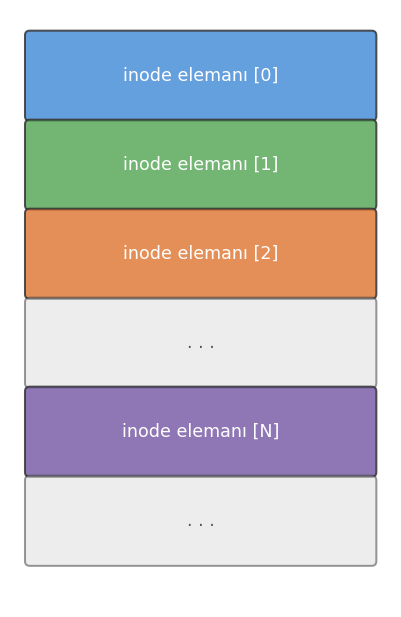
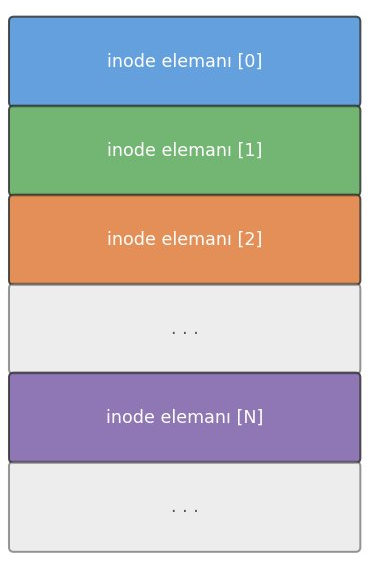
Update

Changed region(s): [[0.0, 0.0, 0.9864, 0.9637], [0.269, 0.3731, 0.7174, 0.4352], [0.269, 0.2487, 0.7174, 0.2798]]

diff --git a/docs/source/kernelsync.rst b/docs/source/kernelsync.rst
@@ -2,3 +2,122 @@
 Çekirdek Senkronizasyonu
 =========================
 
+Kitabımızın bu bölümünde Linux çekirdeğindeki senkronizasyon mekanizmaları üzerinde
+duracağız. Çekirdek içerisindeki kodlar iç içe geçebilecek biçimde (re-entrant)
+çalışabilmektedir. Eğer makinenizde birden fazla işlemci ya da çekirdek varsa
+çekirdek kodları bunlar tarafından eş zamanlı biçimde işletilebilmektedir. Tek
+işlemcili ya da çekirdekli sistemlerde de *thread'ler arası geçiş ve kesme
+mekanizmalarından dolayı* akışların iç içe geçmesi söz konusu olabilmektedir.
+
+Linux çekirdekleri 2.6 ile birlikte *preemptive* hale getirilmiştir. Eskiden
+2.6'dan önceki çekirdeklerde bir thread akışı çekirdek moduna geçtiğinde oradan
+çıkana kadar kesilme (preemption) oluşmuyordu. Ancak 2.6 çekirdekleriyle birlikte
+bir thread akışı örneğin bir sistem fonksiyonunda ilerlerken de quantum süresi
+dolduğundan dolayı çekirdek içerisinde de kesilebilmektedir.
+
+Linux çekirdeğinde oldukça çeşitli senkronizasyon nesneleri bulunmaktadır. Bu
+bölümde biz bu nesneleri ele alıp onların nasıl kullanıldığını açıklayacağız.
+Aynı zamanda çok işlemcili ya da çekirdeklerdeki senkronizasyon sorunlarını ele
+alacağız.
+
+Kritik Kod Blokları ve Senkronizasyonun Gerekliliği
+===================================================
+
+Çekirdek kodlarında senkronizasyon uygulamaya neden gerek vardır? Tıpkı kullanıcı
+modundaki çok thread'li uygulamalarda olduğu gibi bir akış çekirdek içerisinde
+paylaşılan bir veri yapısı üzerinde işlem yaparken bir biçimde thread'ler arası
+geçiş ya da kesme olayı söz konusu olduğunda başka bir akış da bu paylaşılan veri
+yapısını kullanmak isterse bu veri yapısı bozulabilmektedir. Tabii çok çekirdekli
+sistemlerde farklı çekirdeklerdeki thread'ler de çekirdek içerisindeki ortak veri
+yapıları üzerinde eş zamanlı işlemler yapabilmektedir. Örneğin çekirdek kodunun bir
+bağlı listeye eleman eklediğini varsayalım. Tam bu işlemin ortalarında bir yerde
+thread'ler arası geçiş oluşursa ya da başka bir çekirdekteki thread de aynı bağlı
+liste üzerinde işlem yapmaya çalışırsa tüm veri yapısı bozulabilecektir.
+
+Çekirdek senkronizasyonunda en önemli kavram *kritik kod (critical section)* denilen
+kavramdır. Başından sonuna kadar tek bir akış tarafından işletilmesi gereken kodlara
+*kritik kod* denilmektedir. Kritik kod kavramını atomiklikle karıştırmayınız.
+Atomiklik *bir işlem yapılırken thread'ler arası geçiş ya da kesme mekanizması
+yoluyla* işlemin kesintiye uğramaması anlamına gelmektedir. Bir akış çekirdekteki
+bir *kritik kod*'a girdiğinde akış *preemption*'dan dolayı kesintiye uğrayabilir.
+Ancak bu durumda bile başka bir akış kesintiye uğramış olan akış işini bitirene kadar
+kritik koda girmemelidir. Yani kritik koda girmiş olan bir akışın kesintiye uğraması
+biçiminde bir koşul yoktur.
+
+Çekirdek kodları kullanıcı modundaki kodlar gibi değildir. Çekirdek kodları aynı
+zaman diliminde pek çok akış tarafından iç içe geçecek biçimde çalıştırılabilmektedir.
+Bu nedenle çekirdek tasarımında ve aygıt sürücü yazımında senkronizasyon her zaman
+göz önüne alınmalıdır. Maalesef senkronizasyon sorunlarının tespit edilmesi oldukça
+zor olabilmektedir. Çünkü senkronizasyon problemlerinin oluşturduğu böceklerin
+*reproduce* edilmesi oldukça zordur.
+
+Çekirdek içerisindeki *kritik kod* bloklarının önemli bir bölümü birden fazla akışın
+paylaşılan bir veri yapısına erişilmesi nedeniyle oluşturulmaktadır. Örneğin aynı
+hash tablosuna birden fazla prosesin çağırdığı sistem fonksiyonları eleman ekleyebilir.
+Bu durumda bu hash tablosunun böyle erişimlerde *serialize* edilmesi gerekir. Ancak
+senkronizasyon sorunu yalnızca ortak veri yapılarına ve nesnelere erişirken ortaya
+çıkmaz. Bu bölümde ele alacağımız senkronizasyonu gerektiren başka durumlar da
+vardır.
+
+Genel olarak (ancak her zaman değil) bir nesne — burada çekirdek alanı içerisinde
+tahsis edilmiş bir alanı kastediyoruz — eğer birden fazla akış tarafından
+kullanılıyorsa bu nesnenin senkronize edilmesi için ayrı bir senkronizasyon nesnesi
+bulundurulmaktadır. Linux'un çekirdek kodlarında yapıların içerisinde senkronizasyon
+nesnelerini görürseniz şaşırmayınız. Bir senkronizasyon nesnesi ile birden fazla
+nesneyi korumak genel olarak iyi bir fikir değildir; çünkü bu nesnelerden birine
+erişirken kilit alındığı için aslında alakasız olan diğerine erişim de engellenmiş
+olacaktır. Her nesnenin ayrı bir senkronizasyon nesnesi ile korunması en normal olan
+durumdur. Linux çekirdek nesnelerini incelediğinizde onları belirten yapıların
+elemanlarında senkronizasyon nesneleri göreceksiniz.
+
+Manuel Kritik Kod Bloklarını Oluşturmanın Sorunları
+----------------------------------------------------
+
+Kritik kodlar ancak özel makine komutları kullanılarak oluşturulabilmektedir.
+Aşağıdaki gibi basit bir mantıkla kritik kod oluşturulamaz:
+
+.. code-block:: c
+
+    int g_flag = 0;
+    /* ... */
+
+    while (g_flag)
+        ;
+    g_flag = 1;
+    ...
+    ...         <KRİTİK KOD BLOĞU>
+    ...
+    g_flag = 0;
+
+Bu biçimdeki manuel kritik kod oluşturma girişiminin iki sorunu vardır:
+
+1. Bekleme bloke edilerek değil meşgul bir döngüde (busy loop) yapılmaktadır.
+   Yani bir thread kritik kod içerisindeyse diğeri CPU zamanı harcayarak meşgul
+   bir döngüde sürekli bekler.
+
+2. Kodda açık bir pencere bulunmaktadır:
+
+   .. code-block:: c
+
+       while (g_flag)
+           ;
+
+       /* ← DİKKAT: burada thread'ler arası geçiş oluşabilir! */
+
+       g_flag = 1;
+       ...
+       ...      <KRİTİK KOD BLOĞU>
+       ...
+       g_flag = 0;
+
+   Yukarıda gösterilen noktada thread'ler arası geçiş oluşursa birden fazla
+   thread kritik koda girebilir.
+
+İşte bu sakıncayı ortadan kaldırmak için özel makine komutlarından
+faydalanılmaktadır. Bugün bilgisayar sistemlerinde birden fazla çekirdek
+bulunabildiği için kritik kod oluşturan sistem programcılarının bunlara dikkat
+etmesi gerekir. Linux'un çekirdek kodlarında zaten çeşitli senaryolar için
+kullanılabilecek senkronizasyon nesneleri hazır biçimde bulunmaktadır. Bu bölümde
+biz bu senkronizasyon nesnelerini ele alacağız. Bölümün sonlarına doğru da bu
+senkronizasyon nesnelerinin oluşturulabilmesi için gereken makine komutları hakkında
+bilgiler vereceğiz.

diff --git a/docs/source/filesystem1.rst b/docs/source/filesystem1.rst
@@ -937,10 +937,10 @@ UNIX/Linux sistemlerinde bir dosya açıldığında ``open`` POSIX fonksiyonunun
 betimleyicileri aslında dosya betimleyici tablosunda bir indeks belirtmektedir. Dosya betimleyici tablosu dosya nesnelerinin
 (yani ``file`` yapısı türünden nesnelerin) adreslerini tutan bir gösterici dizisidir. Bu tabloyu şöyle temsil edebiliriz:
 
-.. image:: /_static/fd-table.svg
+.. image:: /_static/fd-table.png
    :alt: Dosya Betimleyici Tablosu
    :align: center
-   :width: 70%
+   :width: 65%
    
 Güncel çekirdeklerde dosya betimleyici tablosuna ``task_struct`` nesnesinden hareketle birkaç hamlede erişilmektedir:
 
@@ -993,10 +993,10 @@ tablosu (file descriptor table)* denilmektedir. Yukarıda da belirttiğimiz gibi
 nesnelerinin adreslerini tutan bir gösterici dizisi biçimindedir. Bir kez daha dosya betimleyici tablosunu temsili 
 biçimde gösteriyoruz:
 
-.. image:: /_static/fd-table.svg
+.. image:: /_static/fd-table.png
    :alt: Dosya Betimleyici Tablosu
    :align: center
-   :width: 70%
+   :width: 65%
 
 Buradaki sayılar dizinin indekslerini belirtmektedir. Tabii zamanla dosyalar kapanınca bu dizinin elemanlarının da 
 boşa düşeceğine dikkat ediniz. Boş elemanlara NULL adres yerleştirilmektedir. İşte ``open`` POSIX fonksiyonunun 
@@ -1580,69 +1580,14 @@ numaralı betimleyicileri aynı dosya nesnelerini gösteriyor durumda olur. Tabi
 yeni açacağı dosyalar onlara özgü olacaktır. Paylaşılan dosya nesneleri yalnızca ``fork`` öncesinde açılmış
 olanlardır. fork işlemi sırasında yapılan işlemleri aşağıdaki şekille de pekiştirmek istiyoruz:
 
-.. graphviz::
-
-   digraph fork_fd {
-       rankdir=LR;
-       graph [fontname="DejaVu Sans", nodesep=0.6, ranksep=0.9, splines=ortho];
-       node  [shape=box, style="rounded,filled", fontname="DejaVu Sans",
-              margin="0.25,0.15", fontsize=11];
-       edge  [fontname="DejaVu Sans", fontsize=9, color="#444444"];
-
-       /* ── Üst proses yapıları ── */
-       ptask  [label="task_struct\n(üst proses)",
-               fillcolor="#EEEDFE", color="#534AB7", fontcolor="#3C3489"];
-       pfiles [label="files_struct\n(üst — mevcut)",
-               fillcolor="#EEEDFE", color="#534AB7", fontcolor="#3C3489"];
-       pfd    [label="fd tablosu (üst)\nfd[0]  fd[1]  fd[2]",
-               fillcolor="#EEEDFE", color="#534AB7", fontcolor="#3C3489"];
-
-       /* ── Alt proses yapıları (fork sonrası yeni tahsis) ── */
-       ctask  [label="task_struct\n(alt proses)",
-               fillcolor="#E1F5EE", color="#0F6E56", fontcolor="#085041"];
-       cfiles [label="files_struct\n(alt — yeni tahsis)",
-               fillcolor="#E1F5EE", color="#0F6E56", fontcolor="#085041"];
-       cfd    [label="fd tablosu (alt)\nfd[0]  fd[1]  fd[2]",
-               fillcolor="#E1F5EE", color="#0F6E56", fontcolor="#085041"];
-
-       /* ── Paylaşılan dosya nesneleri (kopyalanmaz) ── */
-       file0  [label="struct file\n(dosya nesnesi 0)",
-               fillcolor="#FAEEDA", color="#854F0B", fontcolor="#633806"];
-       file1  [label="struct file\n(dosya nesnesi 1)",
-               fillcolor="#FAEEDA", color="#854F0B", fontcolor="#633806"];
-       file2  [label="struct file\n(dosya nesnesi 2)",
-               fillcolor="#FAEEDA", color="#854F0B", fontcolor="#633806"];
-
-       /* ── Sütun hizalaması ── */
-       { rank=same; ptask;  ctask;  }
-       { rank=same; pfiles; cfiles; }
-       { rank=same; pfd;    cfd;    }
-       { rank=same; file0;  file1;  file2; }
-
-       /* ── Üst proses bağlantıları ── */
-       ptask  -> pfiles;
-       pfiles -> pfd;
-       pfd    -> file0;
-       pfd    -> file1;
-       pfd    -> file2;
-
-       /* ── Alt proses bağlantıları ── */
-       ctask  -> cfiles [label="yeni tahsis"];
-       cfiles -> cfd    [label="yeni tahsis"];
-       cfd    -> file0  [color="#E24B4A", penwidth=2.0,
-                          label="sığ kopya", fontcolor="#E24B4A"];
-       cfd    -> file1  [color="#E24B4A", penwidth=2.0];
-       cfd    -> file2  [color="#E24B4A", penwidth=2.0];
-
-       /* ── fork() çağrısı ── */
-       ptask -> ctask [label="fork()", style=dashed,
-                        color="#888780", fontcolor="#5F5E5A",
-                        constraint=false];
-   }
+.. image:: /_static/fork-fd.png
+   :alt: Fork sonrası fd tabloları sığ kopyası
+   :align: center
+   :width: 80%
 
 Dosya betimleyici tablosunun kopyalanmasını için şöyle bir şekille de temsil edebiliriz:
 
-.. image:: /_static/fd_table.svg
+.. image:: /_static/fd-table-fork.png
    :alt: Fork sonrası fd tabloları sığ kopyası
    :align: center
    :width: 70%